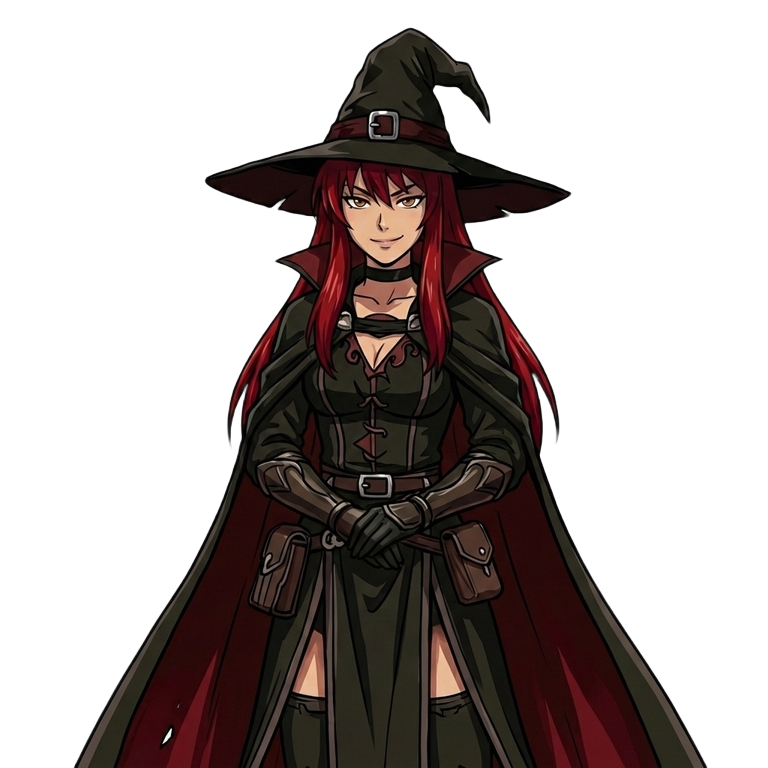
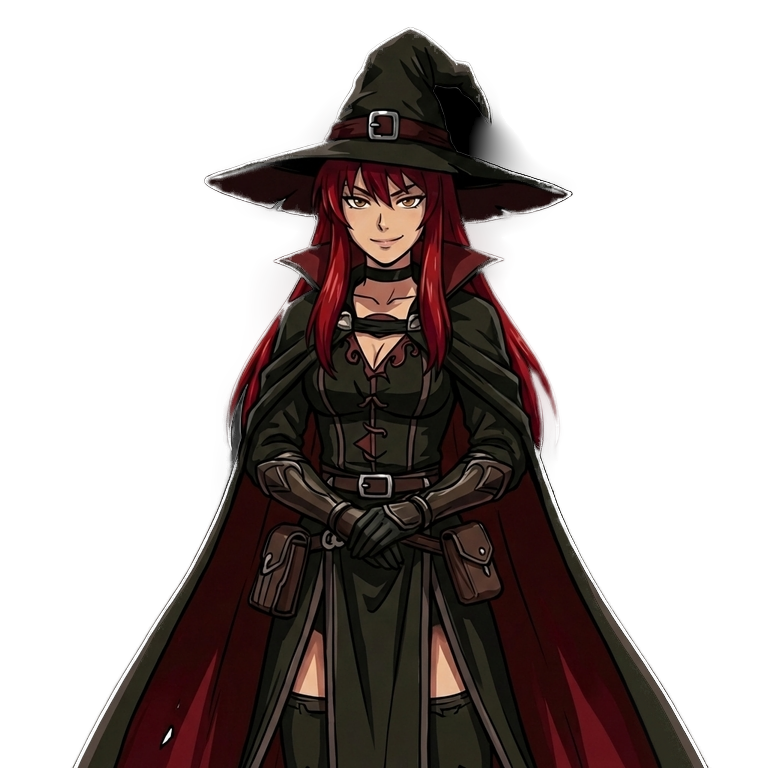
Assets: Aggressive Alpha Matting for Lucrea sprites to remove white halos

diff --git a/scripts/remove_bg.py b/scripts/remove_bg.py
@@ -50,9 +50,17 @@ if __name__ == "__main__":
                     try:
                         # Open
                         inp = Image.open(input_path)
-                        # Remove BG using specialized session
-                        # We turn OFF alpha matting for this model first as it often handles edges better natively
-                        out = remove(inp, session=session)
+                        # Remove BG using specialized session with Aggressive Alpha Matting
+                        # Erode size 15 to eat into white edges
+                        print(f"  - Removing BG (Aggressive Alpha Matting, Erode=15)...")
+                        out = remove(
+                            inp, 
+                            session=session,
+                            alpha_matting=True,
+                            alpha_matting_foreground_threshold=240,
+                            alpha_matting_background_threshold=10,
+                            alpha_matting_erode_size=15
+                        )
                         
                         if args.overwrite:
                             # Backup
